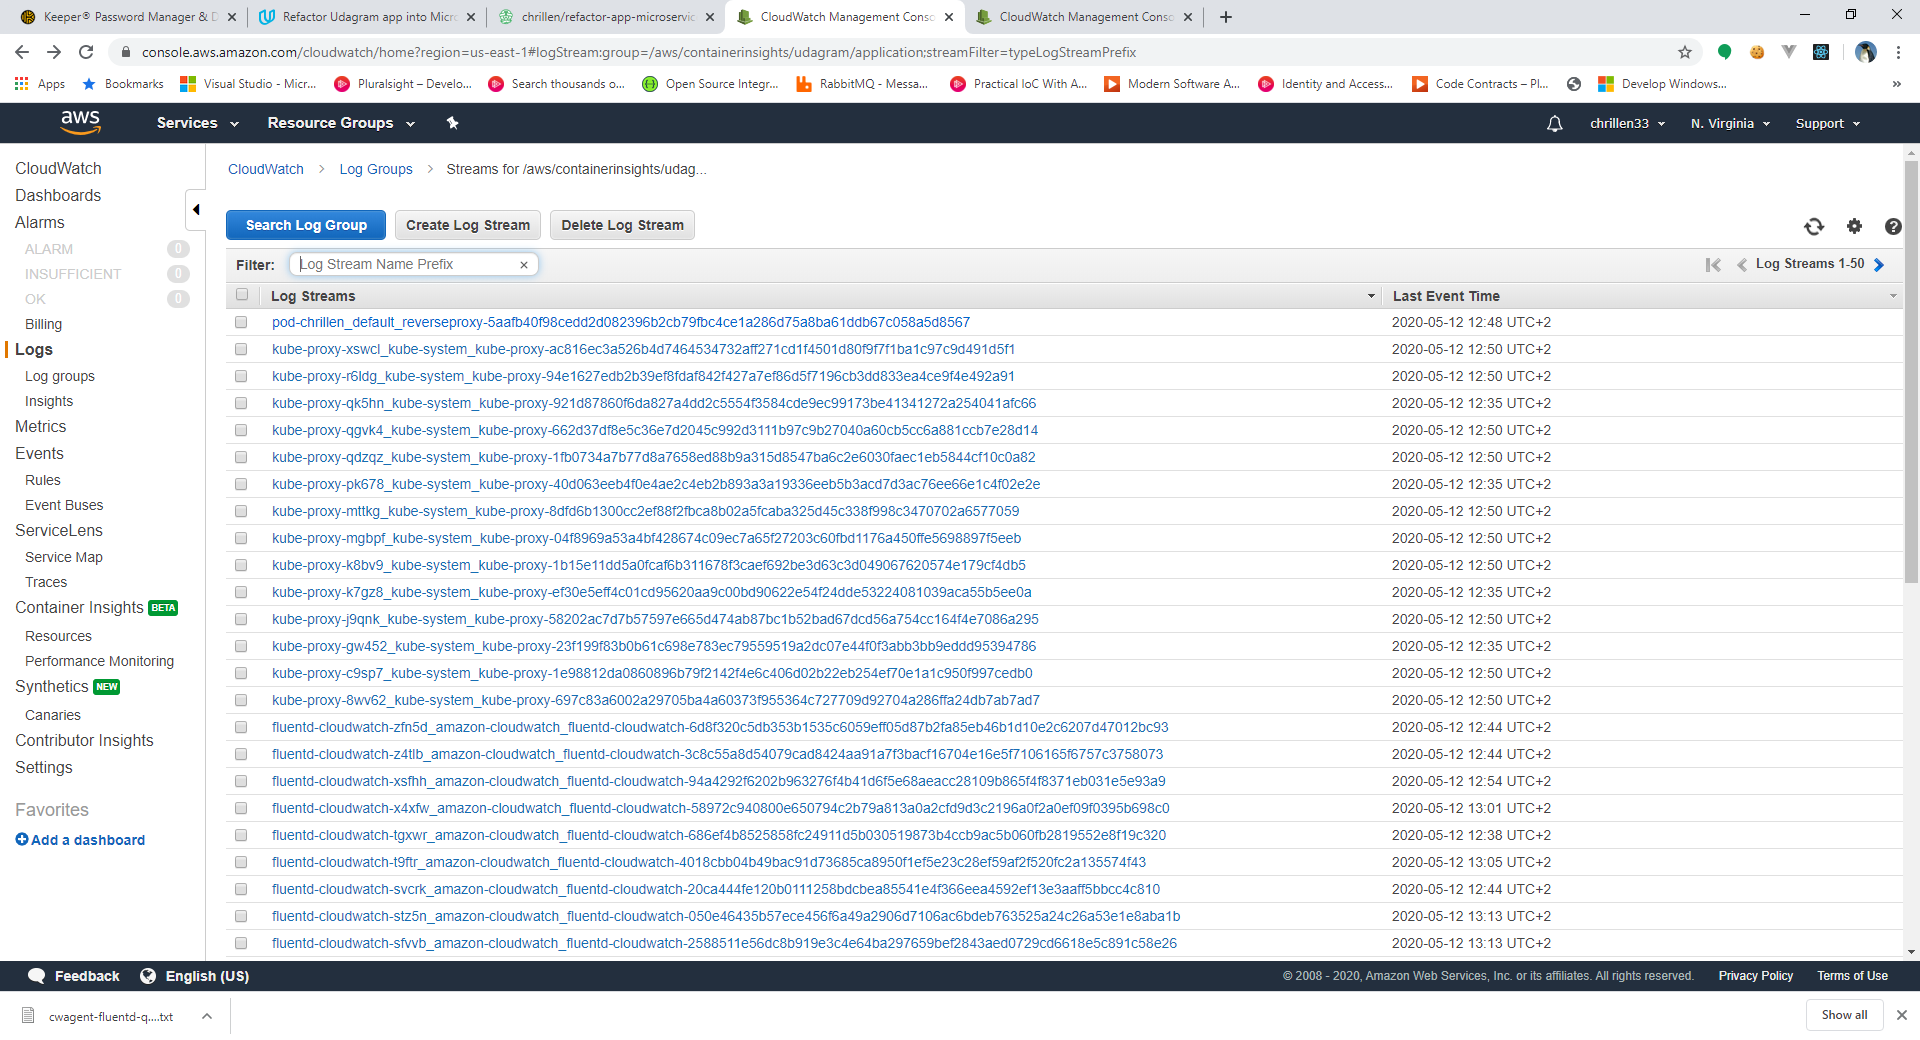
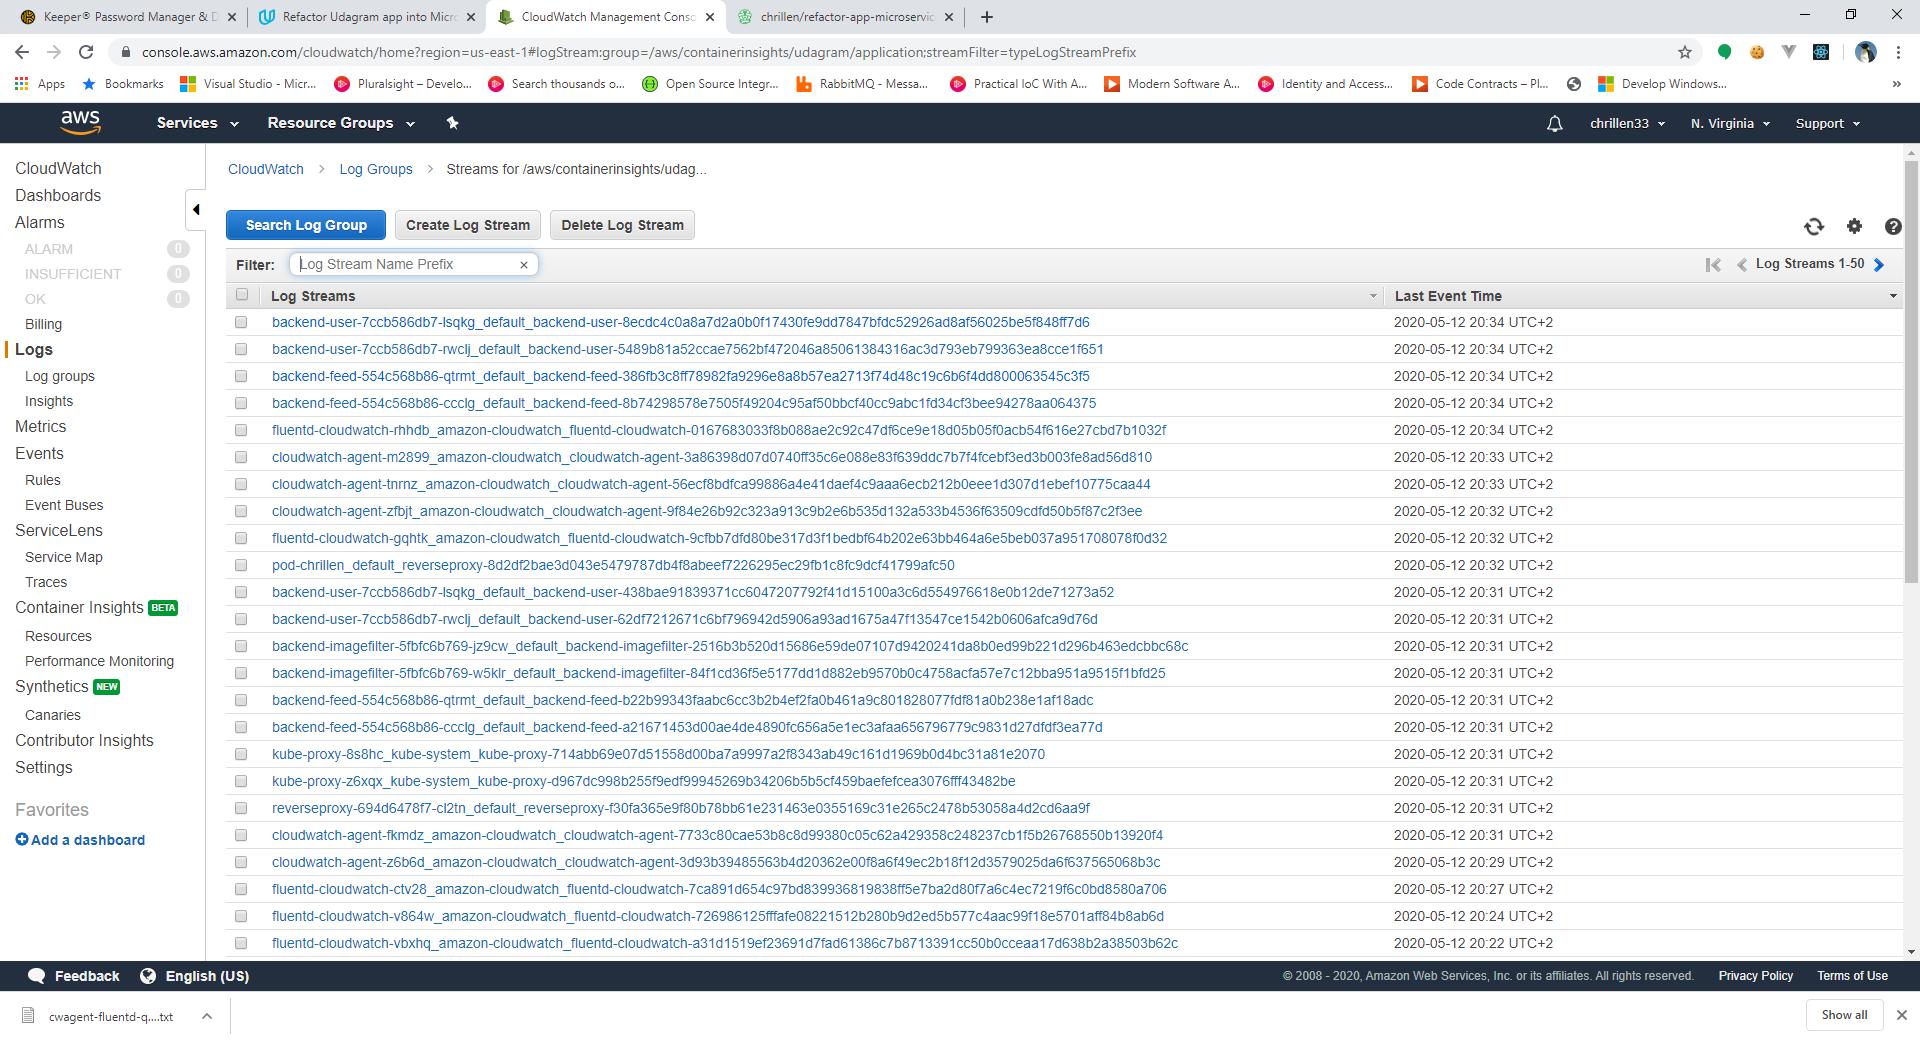
fixed so fe application conencts to correct ip

Changed region(s): [[0.125, 0.3077, 0.625, 0.9231], [0.7188, 0.2769, 0.8125, 0.9231], [0.25, 0.0, 0.5938, 0.0308]]

diff --git a/udacity-c3-frontend/src/environments/environment.prod.ts b/udacity-c3-frontend/src/environments/environment.prod.ts
@@ -5,7 +5,7 @@
 export const environment = {
   production: false,
   appName: 'Udagram',
-  apiHost: 'http://reverseproxy:8080/api/v0'
+  apiHost: 'http://52.5.11.152:8080/api/v0'
 };
 
 /*

diff --git a/udacity-c3-frontend/src/environments/environment.ts b/udacity-c3-frontend/src/environments/environment.ts
@@ -5,7 +5,7 @@
 export const environment = {
   production: false,
   appName: 'Udagram',
-  apiHost: 'http://reverseproxy:8080/api/v0'
+  apiHost: 'http://52.5.11.152:8080/api/v0'
 };
 
 /*

diff --git a/README.md b/README.md
@@ -1,4 +1,4 @@
-[![Build Status](https://travis-ci.com/chrillen/refactor-app-microservices.svg?branch=master&status=passed)](https://travis-ci.com/github/chrillen/refactor-app-microservices.svg)
+[![Build Status](https://travis-ci.com/chrillen/refactor-app-microservices.svg?branch=master)](https://api.travis-ci.com/chrillen/refactor-app-microservices.svg)
 
 # Refactor Udagram App into Microservices and Deploy, Assignment 4 of udacity course.
 
@@ -30,7 +30,6 @@
 2. `cd udacity-c3-restapi-user` and `npm run dev`
 3. `cd udacity-c3-restapi-feed` and `npm run dev`
 4. `cd udacity-c3-restapi-imagefilter` and `npm run dev`
-
 
 ### Below is setup of travis (/.travis.yml) is the configuration of my CI/CD build.
 ![image of Travis ci setup](https://github.com/chrillen/refactor-app-microservices/blob/master/images-of-completion/travis-ci.PNG)
@@ -82,15 +81,19 @@
 4. https://hub.docker.com/repository/docker/chrillen/reverseproxy
 5. https://hub.docker.com/repository/docker/chrillen/udacity-frontend
 
-
 ## Deployment
-
 todo:
-Image of get pods cmd screen shoot.
-image of travis ci deployments.
 image of the application.
-image of cloudwatch logs
 
+### Below is images of kubernetes pods running in AWS EKS
+![image of cloudwatch logs](https://github.com/chrillen/refactor-app-microservices/blob/master/images-of-completion/kubernetes_pods.PNG)
+
+### Below is images of travis ci deploy
+![image of cloudwatch logs](https://github.com/chrillen/refactor-app-microservices/blob/master/images-of-completion/travis_deploy.PNG)
+
+### Below is images of cloudwatch logs from containers and metrics from Kubernetes cluster.
+![image of cloudwatch logs](https://github.com/chrillen/refactor-app-microservices/blob/master/images-of-completion/cloudwatch.PNG)
+![image of cloudwatch metrics](https://github.com/chrillen/refactor-app-microservices/blob/master/images-of-completion/cloudwatch_metrics.PNG)
 
 ### For handling rolling update
   1. `kubectl rollout restart deployment reverseproxy`
